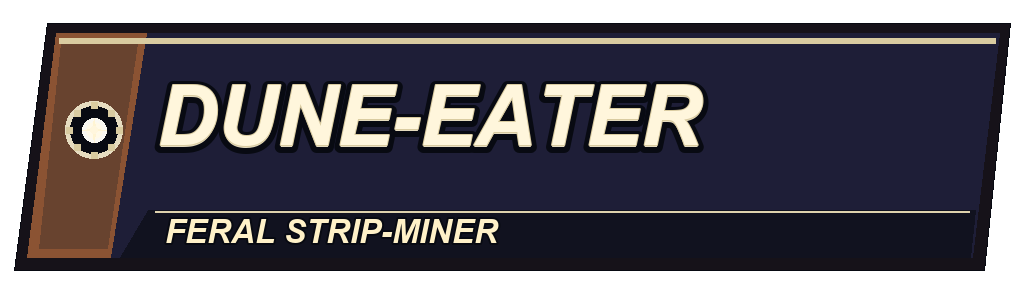
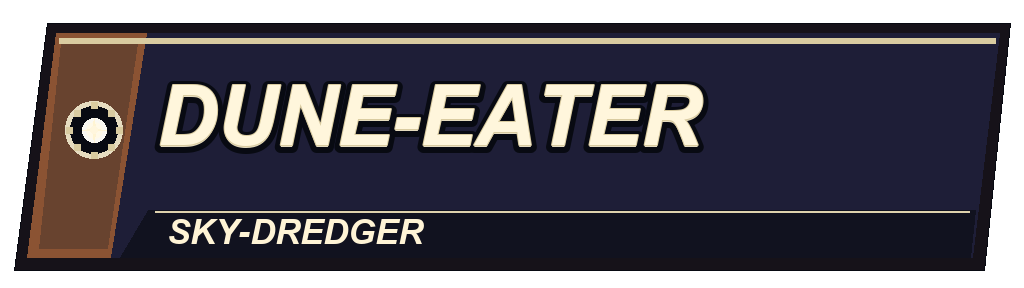
Desert boss: SKY-DREDGER is the final title; lore rewritten for the flying sand leviathan; Desert_card re-made

Changed region(s): [[0.1562, 0.75, 0.5, 0.8438]]

diff --git a/Pause/Assets/Scripts/Bosses/BossCatalog.cs b/Pause/Assets/Scripts/Bosses/BossCatalog.cs
@@ -226,7 +226,7 @@ public static class BossCatalog
     public const string StormDamageKey = "Storm";
     public const string StormDeathKey = "Storm";
 
-    // The Desert boss's title: a placeholder until the user picks one (the name card art Desert_card.png has it baked in).
+    // The Desert boss's title: the user's pick, final (the name card art Desert_card.png has it baked in).
     public const string DesertTitle = "SKY-DREDGER";
 
     static BossDef[] Build()
@@ -424,7 +424,7 @@ public static class BossCatalog
                 },
             },
             // ----------------------------------------------------------- Desert
-            // A flying brass-and-glass strip-mining leviathan: sail-wings, turbine thrusters, a great maw, a crane boom that drops mines and a
+            // A flying brass-and-glass sand-dredging leviathan: sail-wings, turbine thrusters, a great maw, a crane boom that drops mines and a
             // lens turret on its crown (docs/desert-world-plan.md section 7); 35-cell atlas like the Kraken's. Tells: the maw
             // opens (0), the crane boom lowers (1), the crown lens flares (2). Its default pattern is the maw's grit fan, the boom's
             // dune lob and the lens beam; the themed table (BossThemed) adds the burrower strike and the sandstorm wall.
@@ -432,9 +432,9 @@ public static class BossCatalog
             new BossDef
             {
                 id = CodexPrefix + "desert", name = "DUNE-EATER", title = DesertTitle, artKey = "Desert", damageKey = "Desert", deathKey = "Desert", expandedCombat = true,
-                lore = "A strip-mining leviathan the size of a refinery that kept digging after the company stopped paying it, tore off its own tracks " +
-                       "and learned to fly on brass sails and turbine thrusters. Its great maw opens a moment before the grit fan, its crane boom lowers before the mines drop on your lanes, " +
-                       "and the lens turret on its crown flares white a second before it cuts the sky in half. Watch which part moves first.",
+                lore = "A sand leviathan the size of a refinery, half manta and half armoured sandworm, that spent a lifetime dredging the dunes and now dredges the sky itself on lateen sail-wings and turbine thrusters. " +
+                       "Its great maw opens a moment before the grit fan, its crane boom lowers before the mines drop on your lanes, " +
+                       "and the glass lens on its crown flares white a second before it cuts the sky in half. Watch which part moves first.",
                 swayX = 1.1f, swayY = .16f, freqX = .27f, freqY = .54f, flash = DesertFlash, heartColor = DesertHeart,
                 attacks = new[]
                 {

diff --git a/docs/desert-codex-prompts/boss.md b/docs/desert-codex-prompts/boss.md
@@ -1,12 +1,12 @@
 OUTPUT FOLDER: ./Pause/Assets/Art/Bosses/Desert~/ (Desert.png, Desert_shots.png, Desert_card.png, preview.png, preview.gif; sources, prompts, candidates, scripts in its src~/). Do NOT write into Resources/. This job's palette note OVERRIDES the common "no orange/amber glow" wording only in one way: nothing; the HARD NOs stand. Copper is matte, never emissive. The boss's LIGHT is sun-white #FFF1C8 (hue 44, S .22) with hot-white cores: that is the electric accent (arcs, lamps, core, muzzle bursts); it must stay hue 40-48 and S <= .30, never amber (S > .45 at hue 30-48), never red/pink/violet/cyan/green.
 VIEW the quality tier first: the approved bosses ./Pause/Assets/Art/Resources/Bosses/{Ember,Tide,Frost,Verdant,Space}.png (+ _shots.png, _card.png), the staged Storm boss /Users/sina/Developer/Pause/.claude/worktrees/codex-storm-boss/Pause/Assets/Art/Bosses/Storm~/ (Storm.png, Storm_shots.png, Storm_card.png, src~/ for the build approach), the Desert worm art /Users/sina/Developer/Pause/.claude/worktrees/codex-desert-worm/Pause/Assets/Art/Worlds/Desert/worm~/ and backdrop tiles .../backdrop_v3~/v1..v4/mid.png (the boss must stand out from these), and ./.claude/skills/add-world/art-briefs.md section 6a (the contract below is that brief).
-TASK: the Desert end-of-level boss "THE HARVESTER" (name on the card: DUNE-EATER, title: FERAL STRIP-MINER). A colossal rust-copper strip-mining BUCKET-WHEEL EXCAVATOR that has gone feral, a machine that mined the planet dead and now hunts like the worms it fought: seen from above and slightly in front, it faces DOWN-screen toward the player. Silhouette inside the 384 cell, symmetric-ish and boss-wide like the other bosses: a broad armoured chassis of riveted oxidised-copper plate on dark ochre ribbing (matte, rusted, sand-scoured, verdigris trace on seams), a huge front rotary MAW-WHEEL at the bottom centre (a ring of toothed buckets round a hub; the hub is a ringed worm-like maw with bone-pale tooth plates, a sun-white glow deep in the throat), a rear LENS ARRAY on top (a big mirror dish / segmented glass-lens petals on a gimbal, pale glass shimmer, sun-white focus point), and a DRILL BOOM hanging off the right side (a long articulated arm ending in a drill head with a vent stack that exhales pale dust). Tracks/crawler skirts or sand-caked outriggers at the flanks, hanging cables, pale bone-and-dust accents, indigo shadow tint only in the recesses. Rugged neon-pixel-art industrial, NOT cartoonish, NOT a worm drawing only: machine first, worm-maw grafted on.
+TASK: the Desert end-of-level boss "THE HARVESTER" (name on the card: DUNE-EATER, title: SKY-DREDGER). A colossal rust-copper strip-mining BUCKET-WHEEL EXCAVATOR that has gone feral, a machine that mined the planet dead and now hunts like the worms it fought: seen from above and slightly in front, it faces DOWN-screen toward the player. Silhouette inside the 384 cell, symmetric-ish and boss-wide like the other bosses: a broad armoured chassis of riveted oxidised-copper plate on dark ochre ribbing (matte, rusted, sand-scoured, verdigris trace on seams), a huge front rotary MAW-WHEEL at the bottom centre (a ring of toothed buckets round a hub; the hub is a ringed worm-like maw with bone-pale tooth plates, a sun-white glow deep in the throat), a rear LENS ARRAY on top (a big mirror dish / segmented glass-lens petals on a gimbal, pale glass shimmer, sun-white focus point), and a DRILL BOOM hanging off the right side (a long articulated arm ending in a drill head with a vent stack that exhales pale dust). Tracks/crawler skirts or sand-caked outriggers at the flanks, hanging cables, pale bone-and-dust accents, indigo shadow tint only in the recesses. Rugged neon-pixel-art industrial, NOT cartoonish, NOT a worm drawing only: machine first, worm-maw grafted on.
 THE THREE FIRING PARTS (name them in your notes and in manifest.json with approximate muzzle pixels per cell): part 1 = MAW (maw-wheel hub, bottom centre: aimed sand-slug fan), part 2 = BOOM (drill boom, right: dune lob / lane eruption, the boom lowers), part 3 = LENS (rear lens array, top centre: sun-lens heat beam).
 Palette (binding, measured): copper hue 22-30, S <= .62, V <= .60, matte, <= ~35% of the boss (it is a rust machine, but the light and bone accents must still read); sand/dust bone-gold hue 40-48 S <= .33; dark ochre; dusty indigo shadow hue 232-248; verdigris trace hue 135-155 S <= .32 (<= 3%); glass shimmer hue 160-170 S <= .22 (<= 4%); sun-white light #FFF1C8. Flash colour #F4E3B0, heart colour pale bone #FFF6DC. The game draws hostile shots in hostile pink with a rim in code, so shots are bright, chunky, pale. NEVER red: red-band share (hue 345-15, S > .5) <= 1%. Copper may not drift into red or orange: no pixel hue < 20.
 It is one 384x384 cell on screen at 3.3 world units; keep the bulk inside the cell with room for the aura.
 DELIVER:
 1) Desert.png 1920x1536 = 5 columns x 4 rows of 384x384 cells, ALL 20 non-empty, identical scale and registration in every cell: row 0 idle 0-3 (a 4-drawing loop with visible motion: the maw-wheel buckets rotate a quarter-step, the lens dish tilts and its glints travel, vents exhale, cables sway; the chassis stays anchored) + hit; row 1 tell0 a,b / tell1 a,b / fire; row 2 tell2 a,b / death 0-2; row 3 death 3-4 / retreat 0-1 / portrait. Each TELL lights the part about to fire (tell0 = MAW opens and its throat flares sun-white, tell1 = BOOM drops and its drill head spins up white-hot, tell2 = LENS flares white with a gathering focus point); the FIRE cell shows the muzzle burst of attack 0 (the maw spitting a sand-slug fan). NO pixel with alpha > 24 within 6 px of a cell border: glows and smoke must taper off naturally inside the cell (a hard rectangular cut was a user complaint). The death cells may use up to ~90% of the cell only at the fireball peak. Death = core overload in white-gold, plates blown out, a sand shockwave ring (sun-white and pale dust, never orange or red fire).
 2) Desert_shots.png 1024x128 = 8 cells of 128: bolt 0-1 (a fat sand-slug / grit bolt pointing down, two frames), shard 2-3 (a glass shard spear, two frames), lane telegraph 4 (a vertical pale-gold dust-ridge warning column band), beam 5-6 (a sun-lens heat beam, two frames, white core with pale gold-white edge), muzzle charge 7 (a gathering sun-white star); sun-white, bone and pale gold only, bright and chunky.
-3) Desert_card.png 1024x288: the intro name card with "DUNE-EATER" and "FERAL STRIP-MINER" in sun-white / bone neon, dark indigo-brown panel, readable, same layout and size as ./Pause/Assets/Art/Resources/Bosses/Ember_card.png (view it).
+3) Desert_card.png 1024x288: the intro name card with "DUNE-EATER" and "SKY-DREDGER" in sun-white / bone neon, dark indigo-brown panel, readable, same layout and size as ./Pause/Assets/Art/Resources/Bosses/Ember_card.png (view it).
 Also write preview.png (the 20 cells at 1x on #0b0b1a plus the idle loop over the four Desert mid tiles; shots; card) and preview.gif (idle loop + tells), and manifest.json. Rich tonal detail (thousands of colours per cell, NO posterising), 1 px dark outline, pale rim light so it pops off the dark sand. Generate several candidates for the hull with image generation first, inspect them, pick one, then derive the 20 cells keeping ONE consistent hull and registration (repaint only wheel, dish, boom, vents, glow per pose).
 VERIFY with ./.claude/skills/add-world/scripts/verify_boss_art.py (copy to src~ if needed) and your own verify.py: sizes, RGBA, 20 non-empty cells, per-cell alpha-24 border margin table, registration (centroid per idle cell within 3 px), detail floor, red-band share <= 1%, hue-30-48-S>.45 share <= 0.3%, stand-out vs the Desert mid tiles. Finish with the numbers and your honest caveats.
